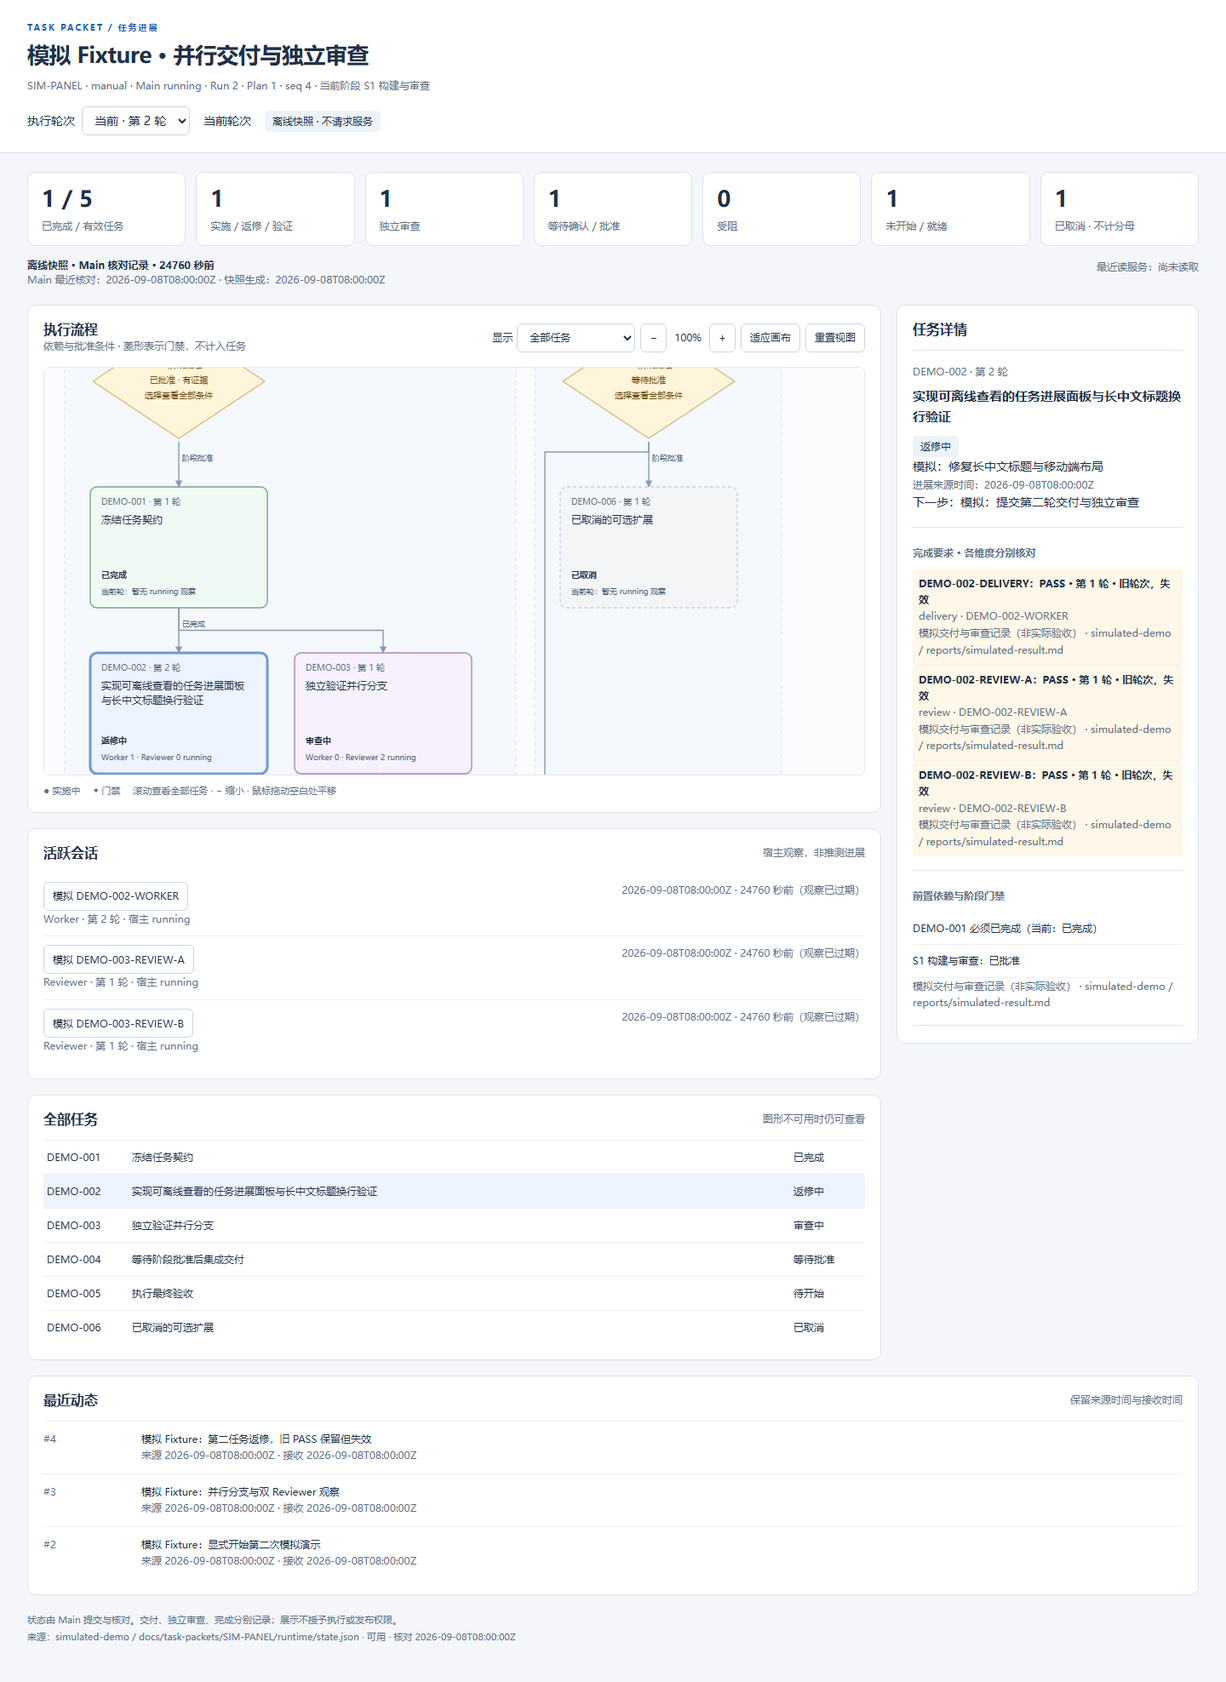
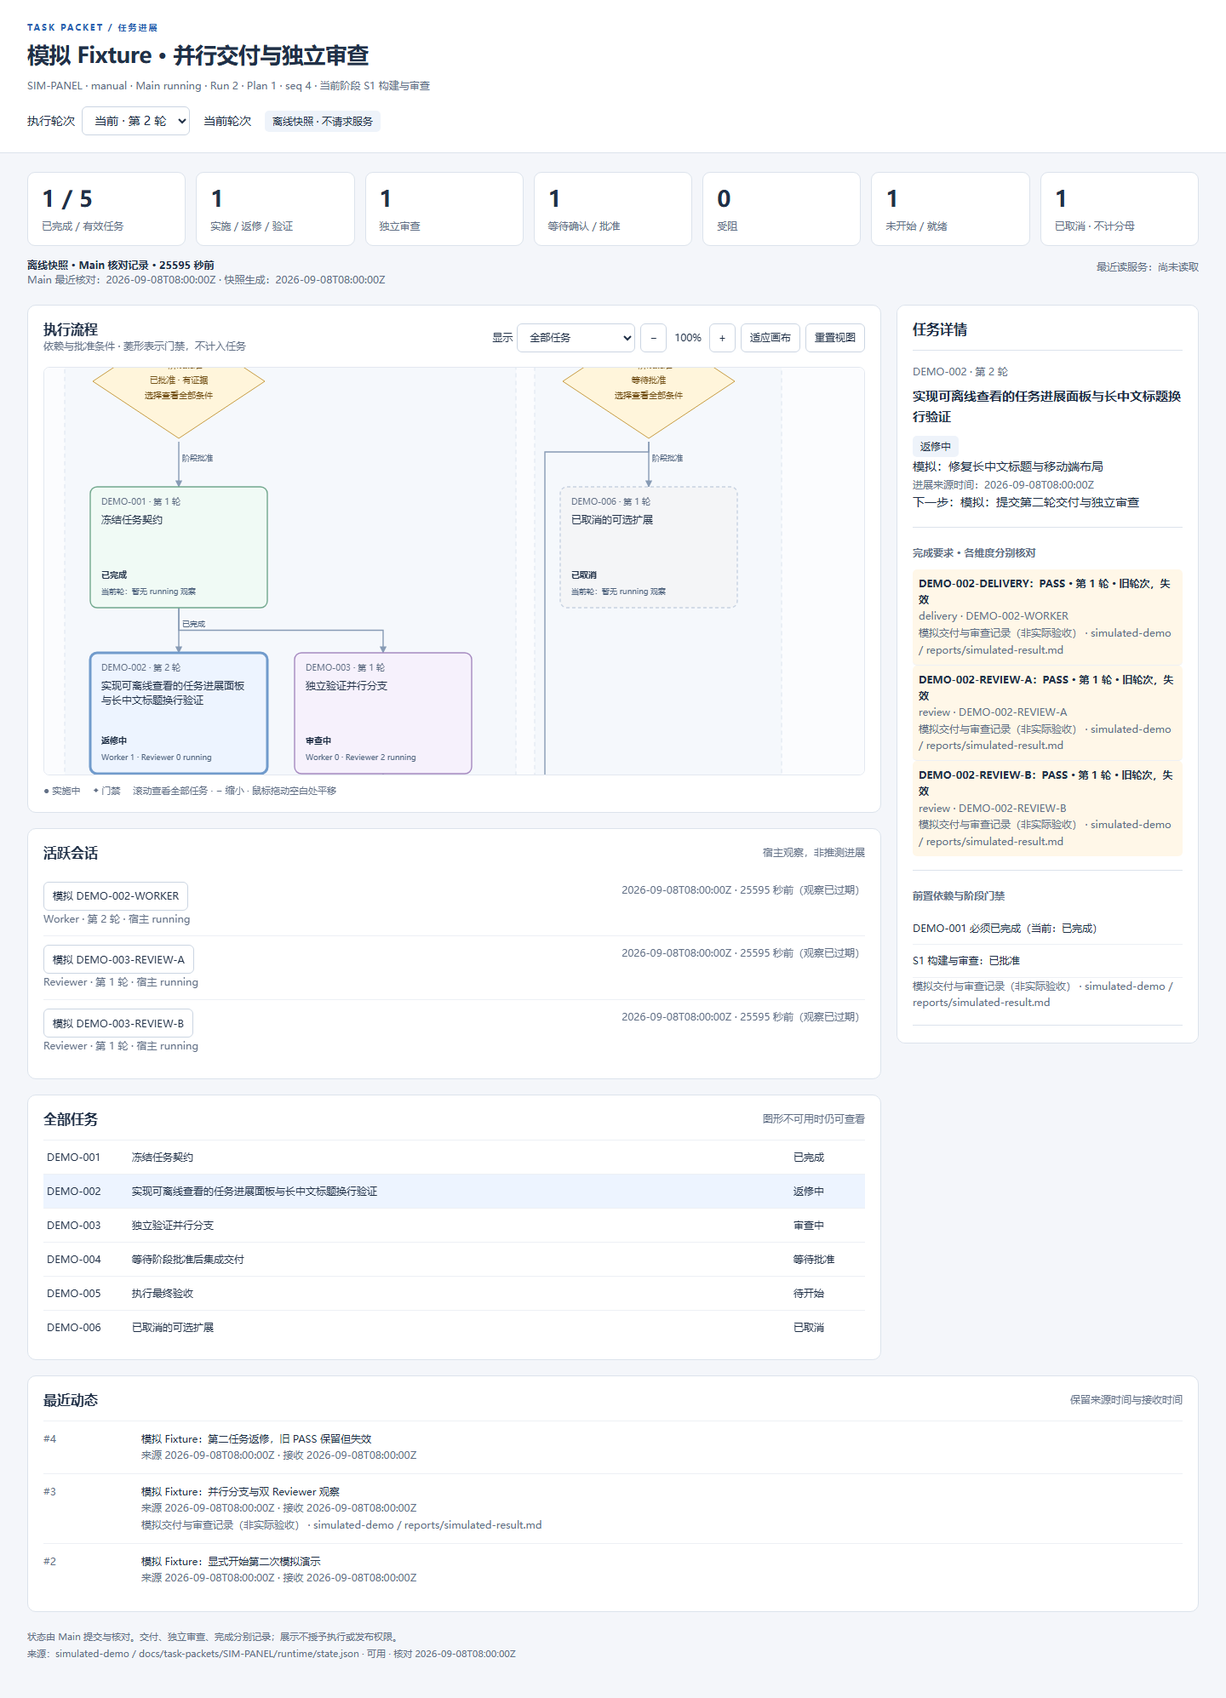
fix: preserve panel state and show event evidence

diff --git a/skills/plan-agent-tasks/assets/dashboard/resources/panel.js b/skills/plan-agent-tasks/assets/dashboard/resources/panel.js
@@ -112,7 +112,22 @@
     byId('graph-content').querySelectorAll('[data-edge-index]').forEach(node=>{const e=graph.edges[Number(node.getAttribute('data-edge-index'))];node.textContent=e.kind==='approval'?'阶段批准':e.kind==='all'?'全部满足':e.requiredCheckIds.length?'当前轮检查 + 证据':'已完成';const path=node.previousSibling;path.querySelector('title').textContent=e.kind==='dependency'?dependencyLabel(state,{from:e.from,required_check_ids:e.requiredCheckIds}):node.textContent;});
   }
   function referenceText(reference) {return reference.url||reference.repository+' / '+reference.path;}
-  function evidenceNode(state,id) {const evidence=state.evidence[id];const node=el('div',undefined,'muted');if(!evidence){node.textContent=id+' · 未找到证据';return node;}node.append(el('span',evidence.title+' · '));if(evidence.reference.url&&/^https?:\/\//i.test(evidence.reference.url)){const link=el('a',evidence.reference.url);link.href=evidence.reference.url;link.target='_blank';link.rel='noopener noreferrer';node.append(link);}else node.append(el('span',referenceText(evidence.reference)));return node;}
+  function evidenceNode(state,id,evidence=state.evidence[id]) {const node=el('div',undefined,'muted');node.dataset.evidenceId=id;if(!evidence){node.textContent=id+' · 未找到证据';return node;}node.append(el('span',evidence.title+' · '));if(evidence.reference.url&&/^https?:\/\//i.test(evidence.reference.url)){const link=el('a',evidence.reference.url);link.href=evidence.reference.url;link.target='_blank';link.rel='noopener noreferrer';node.append(link);}else node.append(el('span',referenceText(evidence.reference)));return node;}
+  function eventEvidence(state,event) {
+    const ids=new Set(),recorded=new Map();
+    const add=values=>(values||[]).forEach(id=>ids.add(id));
+    event.body.ops.forEach(op=>{
+      if(op.type==='evidence.put'){ids.add(op.id);recorded.set(op.id,op.evidence);}
+      if(op.type==='check.set')add(op.changes.evidence_ids);
+      if(op.type==='stage.set')add(op.changes.approval_evidence_ids);
+      if(op.type==='plan.replace'||op.type==='run.start'){
+        Object.values(op.plan.checks).forEach(check=>add(check.evidence_ids));
+        Object.values(op.plan.stages).forEach(stage=>add(stage.approval_evidence_ids));
+        Object.entries(op.plan.evidence||{}).forEach(([id,evidence])=>{ids.add(id);recorded.set(id,evidence);});
+      }
+    });
+    return [...ids].map(id=>({id,evidence:recorded.get(id)||state.evidence[id]}));
+  }
   function section(parent,title){const node=el('section',undefined,'detail-section');node.append(el('h3',title));parent.append(node);return node;}
   function renderDetails(state) {
     const container=byId('task-detail'),scroll=byId('task-detail').parentElement.scrollTop;clear(container);const task=state.tasks[ui.selected];container.dataset.taskId=task?ui.selected:'';
@@ -131,7 +146,7 @@
     const active=byId('active-sessions');clear(active);
     projection.activeSessions.forEach(s=>{const row=el('div',undefined,'active-row'),info=el('div'),button=el('button',s.actual_name||s.planned_name);button.addEventListener('click',()=>selectTask(s.task_id));info.append(button,el('span',(s.role==='reviewer'?'Reviewer':'Worker')+' · 第 '+s.round+' 轮'+(!s.currentRound?' · 旧轮次':'')+' · 宿主 running','muted'));const timestamp=el('div',undefined,'muted');timestamp.dataset.sessionAge=s.id;row.append(info,timestamp);active.append(row);});if(!projection.activeSessions.length)active.append(el('p','没有带来源时间的 running 会话观察。','muted'));
     const list=byId('task-list');clear(list);sorted(state.tasks).forEach(id=>{const task=state.tasks[id],button=el('button',undefined,'task-list-row');button.dataset.taskId=id;button.append(el('span',id),el('span',task.title),el('span',labels[task.status]));button.addEventListener('click',()=>selectTask(id));list.append(button);});updateListSelection();
-    const events=byId('events'),scroll=events.scrollTop;clear(events);[...state.events].reverse().slice(0,30).forEach(event=>{const row=el('li'),meta=el('div','#'+event.seq,'muted'),body=el('div',event.summary);body.append(el('div','来源 '+event.occurred_at+' · 接收 '+event.received_at,'muted'));row.append(meta,body);events.append(row);});if(!state.events.length)events.append(el('li','本轮尚无事件。','muted'));events.scrollTop=scroll;
+    const events=byId('events'),scroll=events.scrollTop;clear(events);[...state.events].reverse().slice(0,30).forEach(event=>{const row=el('li'),meta=el('div','#'+event.seq,'muted'),body=el('div',event.summary);row.dataset.eventId=event.event_id;body.append(el('div','来源 '+event.occurred_at+' · 接收 '+event.received_at,'muted'));eventEvidence(state,event).forEach(item=>body.append(evidenceNode(state,item.id,item.evidence)));row.append(meta,body);events.append(row);});if(!state.events.length)events.append(el('li','本轮尚无事件。','muted'));events.scrollTop=scroll;
   }
   function freshness(state,nowMs) {
     const p=projectState(state,nowMs),delta=p.ageSeconds===null?'未获得核对时间':p.ageSeconds+' 秒前';
@@ -141,11 +156,60 @@
     byId('active-sessions').querySelectorAll('[data-session-age]').forEach(node=>{const session=state.sessions[node.dataset.sessionAge],seconds=age(session.observed_at,nowMs);node.textContent=time(session.observed_at)+' · '+seconds+' 秒前'+(seconds>120?'（观察已过期）':'');});
   }
   function validateIncoming(state) {
-    if(!state||state.schema_version!==1||!state.packet||!Number.isInteger(state.packet.run_number)||state.packet.run_number<1||!Number.isInteger(state.seq)||state.seq<0||!state.tasks||!state.sessions||!state.stages||!state.checks||!state.evidence||!Array.isArray(state.dependencies)||!Array.isArray(state.events)||!Array.isArray(state.history))throw new Error('状态格式不受支持');
+    validateView(state);
     if(current&&(state.packet.id!==current.packet.id||state.packet.run_number<current.packet.run_number||state.seq<current.seq||state.packet.plan_revision<1||(state.packet.run_number===current.packet.run_number&&state.packet.plan_revision<current.packet.plan_revision)))throw new Error('拒绝串包或倒退的状态');
   }
-  function displayState(nowMs) {
-    const state=ui.run==='current'?current:current.history.find(s=>String(s.packet.run_number)===ui.run);if(!state){ui.run='current';return displayState(nowMs);}displayed=state;
+  // Render-shape validation is deliberately separate from Python's execution contract.
+  // It covers every nested field/reference consumed below, including selectable history.
+  function validateView(state, archived=false) {
+    const require=(ok,label)=>{if(!ok)throw new Error('状态格式不受支持：'+label);};
+    const object=(value,label)=>require(value!==null&&typeof value==='object'&&!Array.isArray(value),label);
+    const text=(value,label,nullable=false)=>require(nullable&&value===null||typeof value==='string',label);
+    const integer=(value,label,min=1)=>require(Number.isInteger(value)&&value>=min,label);
+    const list=(value,label)=>{require(Array.isArray(value),label);value.forEach(id=>{text(id,label);require(id.length>0,label);});};
+    const timestamp=(value,label,nullable=true)=>require(nullable&&value===null||typeof value==='string'&&/^\d{4}-\d{2}-\d{2}T\d{2}:\d{2}:\d{2}(?:\.\d+)?(?:Z|\+00:00)$/.test(value)&&Number.isFinite(Date.parse(value)),label);
+    const exists=(id,collection,label,nullable=false)=>require(nullable&&id===null||typeof id==='string'&&Object.hasOwn(collection,id),label);
+    const enumeration=(value,values,label)=>require(values.includes(value),label);
+    const boolean=(value,label)=>require(typeof value==='boolean',label);
+    const reference=(value,label)=>{
+      object(value,label);
+      if(Object.hasOwn(value,'url')){text(value.url,label);let url;try{url=new URL(value.url);}catch{throw new Error('状态格式不受支持：'+label);}require(['http:','https:'].includes(url.protocol)&&!!url.hostname&&!url.username&&!url.password&&!/\s/.test(value.url),label);}
+      else{text(value.repository,label);text(value.path,label);require(value.repository.length>0&&!/^[\\/]|:/.test(value.path)&&value.path.replace(/\\/g,'/').split('/').every(part=>part&&!['.','..'].includes(part)),label);}
+    };
+    const evidence=(value,label)=>{object(value,label);text(value.title,label);reference(value.reference,label);};
+    const model=(value,label)=>{if(value===null)return;object(value,label);['provider','model','reasoning_effort','service_tier'].forEach(key=>text(value[key],label,true));};
+    object(state,'state');require(state.schema_version===1,'schema_version');integer(state.seq,'seq',0);timestamp(state.observed_at,'observed_at');timestamp(state.generated_at,'generated_at',false);
+    ['packet','main','source','tasks','sessions','stages','checks','evidence'].forEach(key=>object(state[key],key));
+    const p=state.packet;['id','title','mode','stop_condition'].forEach(key=>text(p[key],'packet.'+key));integer(p.run_number,'run_number');integer(p.plan_revision,'plan_revision');enumeration(p.lifecycle,['planned','running','waiting_user','blocked','finished'],'lifecycle');exists(p.stage_id,state.stages,'packet.stage_id',true);
+    ['logical_id','status'].forEach(key=>text(state.main[key],'main.'+key));text(state.main.session_id,'main.session_id',true);timestamp(state.main.observed_at,'main.observed_at');
+    reference(state.source.reference,'source.reference');boolean(state.source.available,'source.available');timestamp(state.source.checked_at,'source.checked_at');
+    Object.entries(state.evidence).forEach(([id,value])=>evidence(value,'evidence.'+id));
+    Object.entries(state.tasks).forEach(([id,t])=>{
+      object(t,'task.'+id);require(t.id===id,'task.id');['title','progress','next_action'].forEach(key=>text(t[key],'task.'+key));text(t.blocker,'task.blocker',true);timestamp(t.progress_at,'task.progress_at');integer(t.round,'task.round');require(Object.hasOwn(labels,t.status),'task.status');exists(t.stage_id,state.stages,'task.stage_id',true);
+      list(t.session_ids,'task.session_ids');t.session_ids.forEach(rid=>exists(rid,state.sessions,'task.session_ids'));list(t.required_check_ids,'task.required_check_ids');require(t.required_check_ids.length>0,'task.required_check_ids');t.required_check_ids.forEach(cid=>exists(cid,state.checks,'task.required_check_ids'));
+    });
+    Object.entries(state.sessions).forEach(([id,s])=>{
+      object(s,'session.'+id);exists(s.task_id,state.tasks,'session.task_id');enumeration(s.role,['worker','reviewer'],'session.role');text(s.planned_name,'session.planned_name');['actual_name','actual_id','replaces'].forEach(key=>text(s[key],'session.'+key,true));text(s.host_status,'session.host_status');timestamp(s.observed_at,'session.observed_at');integer(s.round,'session.round');model(s.planned_model,'session.planned_model');model(s.actual_model,'session.actual_model');
+    });
+    Object.entries(state.stages).forEach(([id,s])=>{object(s,'stage.'+id);text(s.title,'stage.title');list(s.task_ids,'stage.task_ids');s.task_ids.forEach(tid=>exists(tid,state.tasks,'stage.task_ids'));boolean(s.approved,'stage.approved');list(s.approval_evidence_ids,'stage.approval_evidence_ids');s.approval_evidence_ids.forEach(eid=>exists(eid,state.evidence,'stage.evidence'));});
+    Object.entries(state.checks).forEach(([id,c])=>{object(c,'check.'+id);exists(c.task_id,state.tasks,'check.task_id');text(c.kind,'check.kind');text(c.role_id,'check.role_id');integer(c.round,'check.round');boolean(c.applicable,'check.applicable');enumeration(c.result,c.applicable?['PASS','FAIL','UNRUN','BLOCKED']:[null],'check.result');text(c.not_applicable_reason,'check.not_applicable_reason',true);list(c.evidence_ids,'check.evidence_ids');c.evidence_ids.forEach(eid=>exists(eid,state.evidence,'check.evidence'));});
+    require(Array.isArray(state.dependencies),'dependencies');state.dependencies.forEach(d=>{object(d,'dependency');exists(d.from,state.tasks,'dependency.from');exists(d.to,state.tasks,'dependency.to');list(d.required_check_ids,'dependency.required_check_ids');d.required_check_ids.forEach(cid=>exists(cid,state.checks,'dependency.check'));});
+    require(Array.isArray(state.events),'events');state.events.forEach(event=>{
+      object(event,'event');text(event.event_id,'event.id');text(event.summary,'event.summary');integer(event.seq,'event.seq');timestamp(event.occurred_at,'event.occurred_at',false);timestamp(event.received_at,'event.received_at',false);object(event.body,'event.body');require(Array.isArray(event.body.ops),'event.body.ops');
+      event.body.ops.forEach(op=>{
+        object(op,'event.op');text(op.type,'event.op.type');
+        if(op.type==='evidence.put'){text(op.id,'event.evidence.id');evidence(op.evidence,'event.evidence');}
+        if(op.type==='check.set'||op.type==='stage.set'){object(op.changes,'event.changes');for(const key of ['evidence_ids','approval_evidence_ids'])if(Object.hasOwn(op.changes,key))list(op.changes[key],'event.'+key);}
+        if(op.type==='plan.replace'||op.type==='run.start'){
+          object(op.plan,'event.plan');for(const [collection,key] of [['checks','evidence_ids'],['stages','approval_evidence_ids']]){object(op.plan[collection],'event.plan.'+collection);Object.values(op.plan[collection]).forEach(value=>{object(value,'event.plan.entry');list(value[key],'event.plan.'+key);});}
+          if(Object.hasOwn(op.plan,'evidence')){object(op.plan.evidence,'event.plan.evidence');Object.values(op.plan.evidence).forEach(value=>evidence(value,'event.plan.evidence'));}
+        }
+      });
+    });
+    if(!archived){require(Array.isArray(state.history),'history');state.history.forEach(item=>{validateView(item,true);require(item.packet.id===p.id&&item.packet.run_number<p.run_number,'history.identity');});}
+  }
+  function displayState(nowMs, candidate=current) {
+    const state=ui.run==='current'?candidate:candidate.history.find(s=>String(s.packet.run_number)===ui.run);if(!state){ui.run='current';return displayState(nowMs,candidate);}displayed=state;
     if(ui.selected&&!state.tasks[ui.selected])ui.selected=null;
     const p=projectState(state,nowMs);byId('packet-title').textContent=state.packet.title;document.title=state.packet.title+' · 任务进展';byId('packet-meta').textContent=state.packet.id+' · '+state.packet.mode+' · Main '+state.main.status+' · Run '+state.packet.run_number+' · Plan '+state.packet.plan_revision+' · seq '+state.seq+' · 当前阶段 '+(state.packet.stage_id?state.packet.stage_id+' '+state.stages[state.packet.stage_id].title:'未指定');
     byId('history-label').textContent=ui.run==='current'?'当前轮次':'历史轮次 · 只读快照';const counts=byId('counts');clear(counts);[['done','已完成 / 有效任务'],['active','实施 / 返修 / 验证'],['review','独立审查'],['waiting','等待确认 / 批准'],['blocked','受阻'],['pending','未开始 / 就绪'],...(p.counts.failed?[['failed','失败']]:[]),...(p.counts.cancelled?[['cancelled','已取消 · 不计分母']]:[])].forEach(([key,label])=>{const node=el('div',undefined,'count');node.append(el('strong',key==='done'?p.counts.done+' / '+p.counts.total:String(p.counts[key])),el('span',label));counts.append(node);});
@@ -155,8 +219,27 @@
   function renderState(state,nowMs=Date.now()) {
     validateIncoming(state);
     if(current&&state.seq===current.seq){if(state.packet.run_number!==current.packet.run_number)throw new Error('相同序号不能改变执行轮次');freshness(displayed,nowMs);return false;}
-    current=JSON.parse(JSON.stringify(state));const selector=byId('run-select');clear(selector);selector.append(new Option('当前 · 第 '+current.packet.run_number+' 轮','current'));[...current.history].reverse().forEach(item=>selector.append(new Option('历史 · 第 '+item.packet.run_number+' 轮',String(item.packet.run_number))));if(ui.run!=='current'&&!current.history.some(item=>String(item.packet.run_number)===ui.run))ui.run='current';selector.value=ui.run;
-    const scroller=byId('graph-scroll'),left=scroller.scrollLeft,top=scroller.scrollTop;displayState(nowMs);scroller.scrollLeft=left;scroller.scrollTop=top;return true;
+    const candidate=JSON.parse(JSON.stringify(state)),previous={displayed,graph,ui:{...ui}},restore=captureDisplay();
+    try{
+      const selector=byId('run-select');clear(selector);selector.append(new Option('当前 · 第 '+candidate.packet.run_number+' 轮','current'));[...candidate.history].reverse().forEach(item=>selector.append(new Option('历史 · 第 '+item.packet.run_number+' 轮',String(item.packet.run_number))));if(ui.run!=='current'&&!candidate.history.some(item=>String(item.packet.run_number)===ui.run))ui.run='current';selector.value=ui.run;
+      const scroller=byId('graph-scroll'),left=scroller.scrollLeft,top=scroller.scrollTop;displayState(nowMs,candidate);scroller.scrollLeft=left;scroller.scrollTop=top;
+      current=candidate;return true;
+    }catch(error){displayed=previous.displayed;graph=previous.graph;Object.assign(ui,previous.ui);restore();throw error;}
+  }
+  function captureDisplay() {
+    const title=document.title,active=document.activeElement,position=[window.scrollX,window.scrollY],records=[];
+    function visit(node){
+      if(node.nodeType===Node.TEXT_NODE){records.push({node,data:node.data});return;}
+      if(node.nodeType!==Node.ELEMENT_NODE)return;
+      records.push({node,children:[...node.childNodes],attributes:[...node.attributes].map(a=>[a.name,a.value]),value:node instanceof HTMLSelectElement?node.value:null,scroll:[node.scrollLeft,node.scrollTop]});
+      [...node.childNodes].forEach(visit);
+    }
+    document.querySelectorAll('.page-header, main').forEach(visit);
+    return ()=>{
+      records.forEach(saved=>{const node=saved.node;if(Object.hasOwn(saved,'data')){node.data=saved.data;return;}[...node.attributes].forEach(a=>node.removeAttribute(a.name));saved.attributes.forEach(([key,value])=>node.setAttribute(key,value));node.replaceChildren(...saved.children);});
+      records.forEach(saved=>{if(saved.scroll){if(saved.value!==null)saved.node.value=saved.value;[saved.node.scrollLeft,saved.node.scrollTop]=saved.scroll;}});
+      document.title=title;if(active?.isConnected)active.focus({preventScroll:true});window.scrollTo(...position);
+    };
   }
   function refreshOnce() {
     if(location.protocol==='file:')return Promise.resolve(false);

diff --git a/skills/plan-agent-tasks/examples/progress-panel/README.md b/skills/plan-agent-tasks/examples/progress-panel/README.md
@@ -40,10 +40,14 @@ Path("simulated-panel.html").write_text(
 - 默认从上到下按 rank 展示 DAG，节点显示当前轮的 Worker/Reviewer running 观察摘要。插入顺序变化不改变节点位置；跨阶段边、全部前置条件与两个 Reviewer 条件保留。已测示例中的折线不穿过无关节点。活跃、受阻与当前阶段过滤仅淡化节点；“适应画布”将完整图放入内部视口。
 - 键盘 Enter 选中，标题和状态更新保留选中任务、筛选、缩放、平移与滚动位置；角色文本作为字面文本展示；实际模型未知时不复制计划模型。
 - 同 seq 不重建任务列表或图；Main 与会话观察时间差仍更新。历史查看不覆盖当前数据；拒绝不支持的 schema、串包、旧 run 和倒退 seq。
+- 接收前核对渲染所需的嵌套结构与引用，包含历史快照；无效数据不改变已接受的 seq 或界面。渲染异常恢复原有节点、选择与控件状态。专项浏览器回归覆盖 18 类无效字段、原有效响应恢复和一次模拟渲染异常。
+- 最近动态从 `evidence.put`、检查/阶段更新和计划更新中的证据字段提取引用，按 ID 去重；事件自带证据优先于当前证据字典。只展示结构化摘要及安全引用，字面 HTML 文字不会生成元素。
 - 即使 SVG 构造不可用，六个任务仍可在“全部任务”列表选择，任务详情与两个 Reviewer 仍可读取。
 - `file:` 下自动启动及显式 `refreshOnce()` 都不 fetch。HTTP 检查使用 **受控路由 Fixture**，覆盖一次请求结束后约 2 秒的下一次自动轮询、请求去重、5 秒超时、503、来源错误与恢复；记录最大并发为 `1`。服务读取不修改 Main 核对时间。
 
 开发仓库中可用 `python tests/panel_preview.py <临时输出HTML>` 生成固定渲染器输出，再运行 `node tests/panel_browser.cjs <临时输出HTML>`。浏览器测试先尝试普通 `require('playwright')`，也接受环境变量 `PANEL_PLAYWRIGHT_MODULE` 指定已安装模块；没有可用 Playwright 或 Chromium 时输出 **UNRUN** 并返回 77，不自动安装。`PANEL_SCREENSHOT_DIR` 可指定截图目录。以上测试助手只存在于开发仓库，不是独立 Skill 的必需文件。
+
+设置 `PANEL_BROWSER_MODE=review-1` 可只运行状态接收原子性与事件证据的专项回归；不设置时运行原完整页面检查及可选截图。
 
 以下截图均由真实浏览器从固定渲染器生成的 HTML 捕获，已人工打开检查；全部身份和内容已模拟：
 
